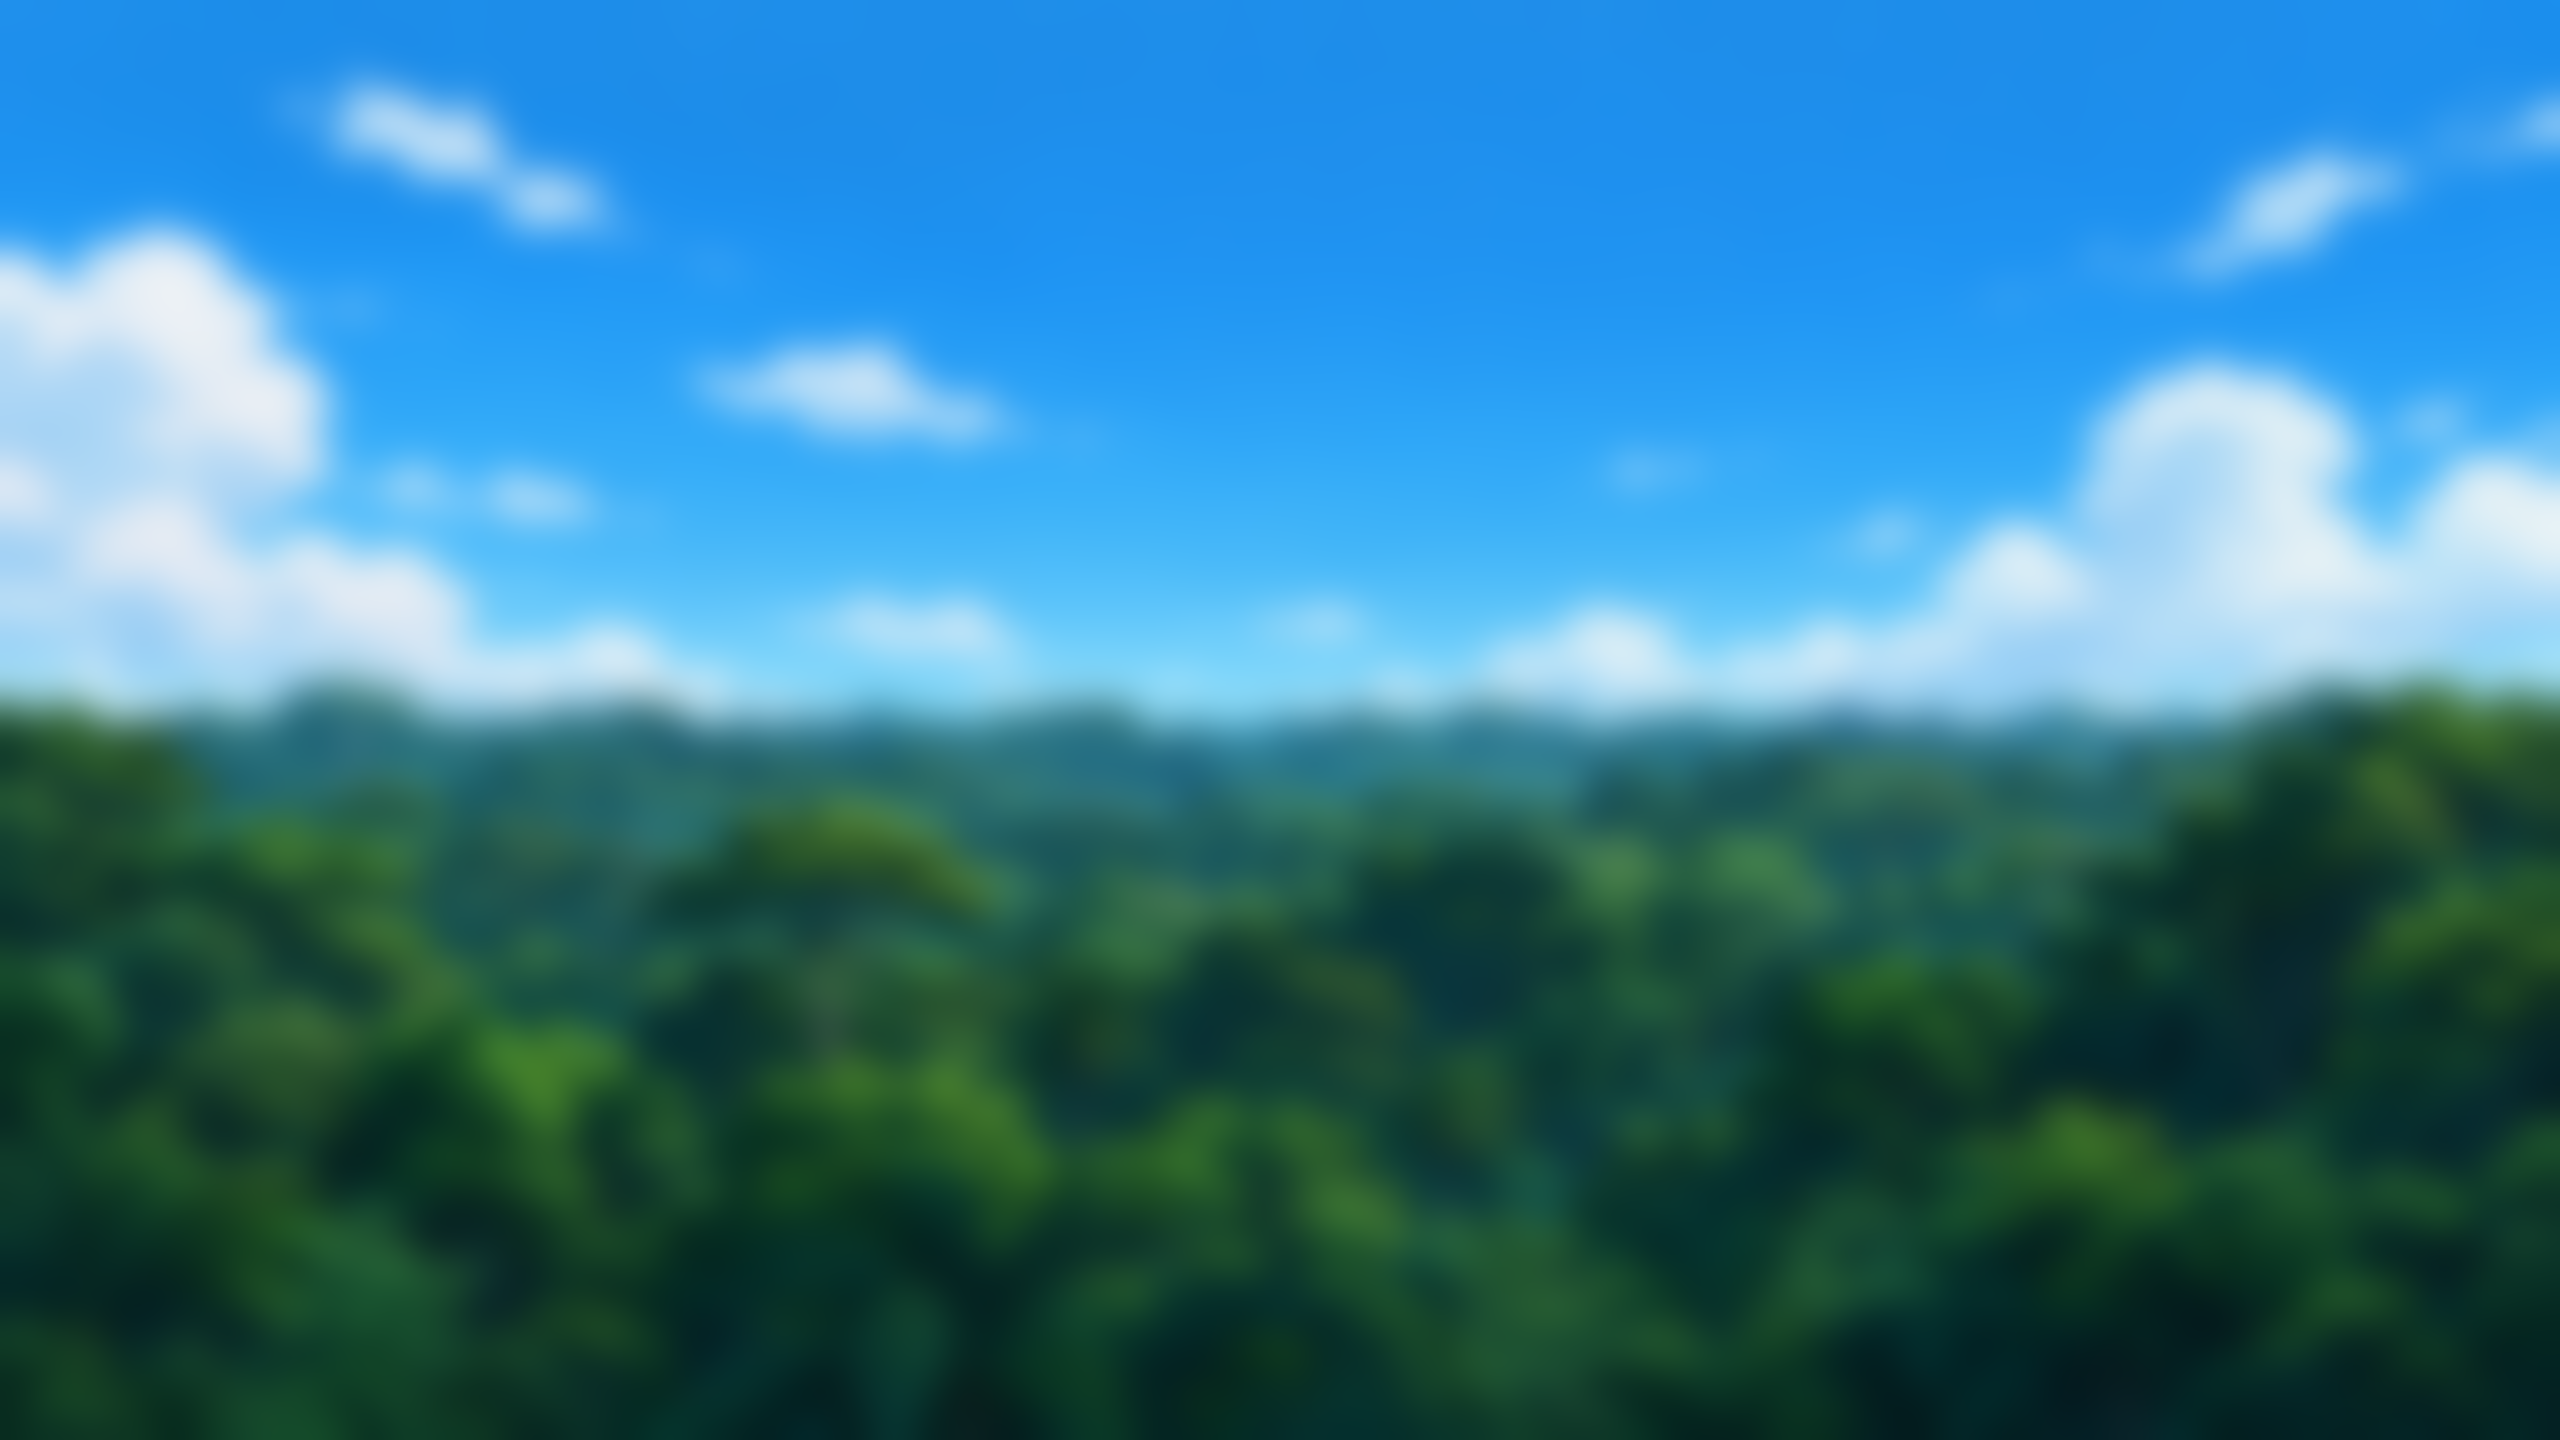
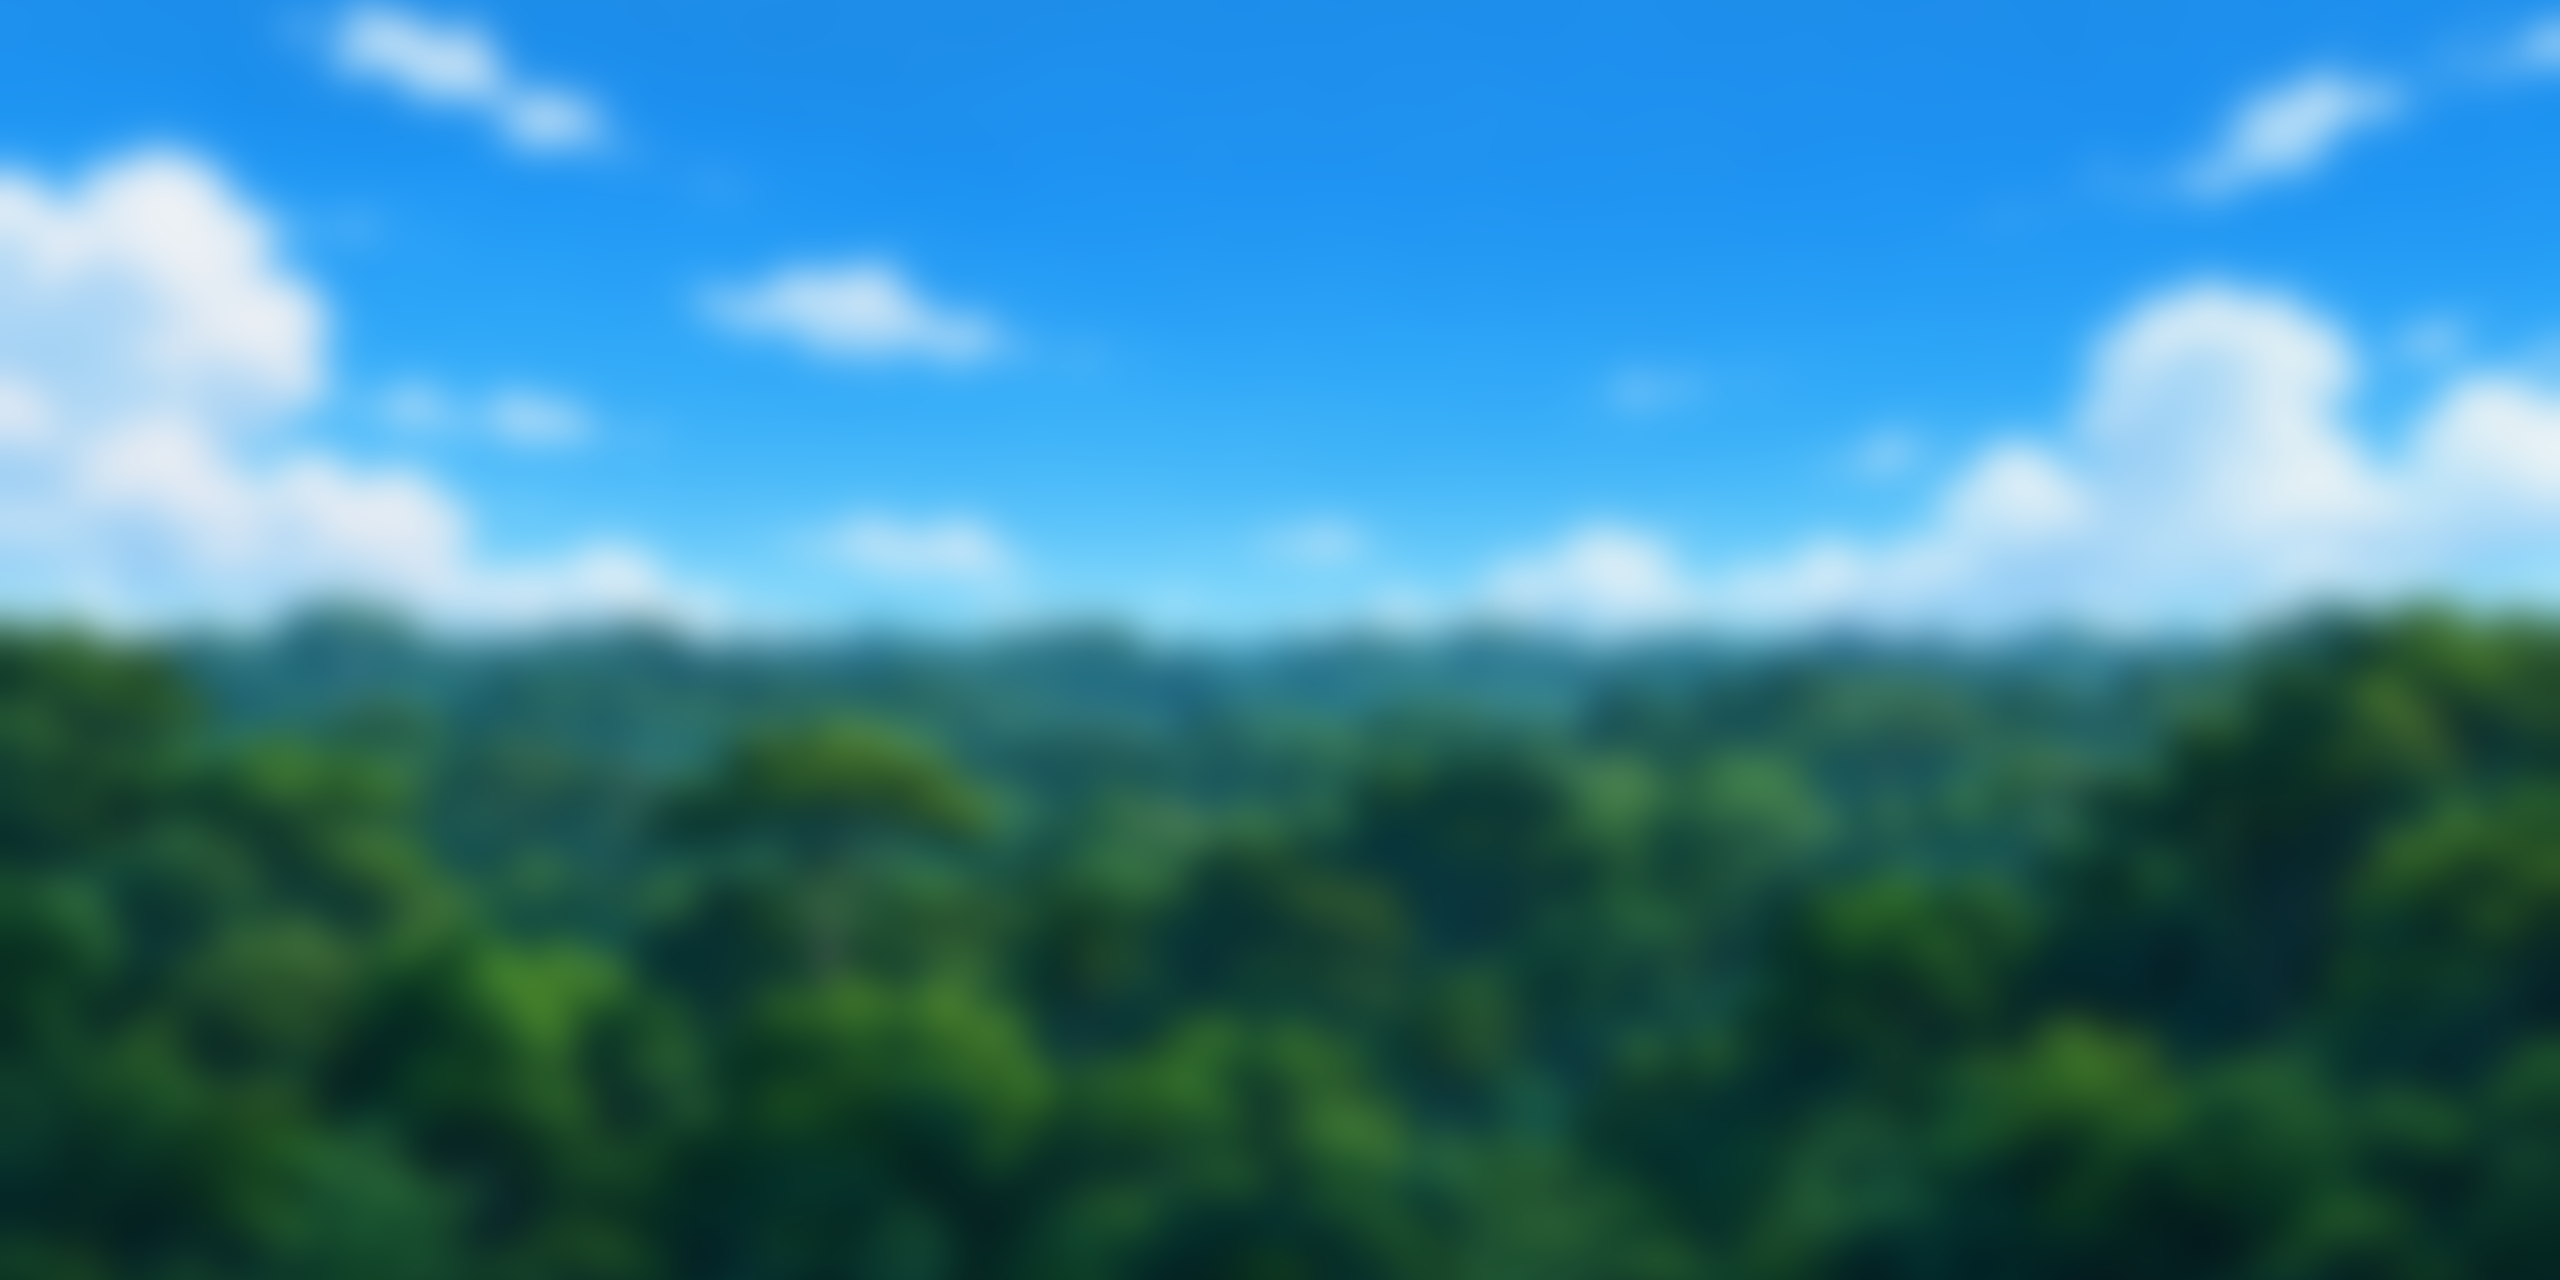
skybox change

diff --git a/Assets/Core/Scripts/Editor/MatchCatalogBuilder.cs b/Assets/Core/Scripts/Editor/MatchCatalogBuilder.cs
@@ -21,6 +21,13 @@ namespace Blocks.Gameplay.Core
     ///     Prefabs WITHOUT an underscore in their name (Challenge16, Challenge32) are not challenges: they're
     ///     the plain pieces Practice Map fills the holes with, so they're kept out of the random rotation and
     ///     stored as the catalog's practice pieces instead.
+    /// Each map's sky also goes in the MapCatalog: a Skybox material or image named after the map plus
+    /// "_skybox", anywhere under Assets (dinosaur_zoo_skybox.png for DinosaurZoo - case, underscores and
+    /// spaces don't matter). For an image, a Skybox/Panoramic material of the same name is made next to it
+    /// the first time (180 degrees, mirrored on the back, so there's no seam and the image isn't stretched
+    /// all the way round) and the image is set to import at full size without mipmaps. After that the
+    /// material is left alone, so tweak it (Rotation, Exposure, Image Type) as you like. Maps with no sky
+    /// keep [BB] Core's default.
     /// Rebuilt automatically when anything in those folders (or a glb in Assets/Maps, since the markers live
     /// there) is imported, moved or deleted, and once when the editor loads if a list doesn't exist yet.
     ///
@@ -76,7 +83,18 @@ namespace Blocks.Gameplay.Core
         internal static bool IsWatchedPath(string path) =>
             path.StartsWith(MapsFolder + "/", StringComparison.Ordinal) ||
             path.StartsWith(ChallengesFolder + "/", StringComparison.Ordinal) ||
-            (path.StartsWith(GlbFolder + "/", StringComparison.Ordinal) && path.EndsWith(".glb", StringComparison.OrdinalIgnoreCase));
+            (path.StartsWith(GlbFolder + "/", StringComparison.Ordinal) && path.EndsWith(".glb", StringComparison.OrdinalIgnoreCase)) ||
+            (path.StartsWith("Assets/", StringComparison.Ordinal) && IsSkyboxFileName(path));
+
+        private static readonly string[] SkyboxExtensions = { ".mat", ".png", ".jpg", ".jpeg", ".tga", ".psd", ".exr", ".hdr" };
+
+        private static bool IsSkyboxFileName(string path) =>
+            SkyboxKey(Path.GetFileNameWithoutExtension(path)).EndsWith("skybox", StringComparison.Ordinal) &&
+            SkyboxExtensions.Contains(Path.GetExtension(path).ToLowerInvariant());
+
+        /// <summary>A name with case, underscores, spaces etc. ignored: "dinosaur_zoo_skybox" and "DinosaurZooSkybox" match.</summary>
+        private static string SkyboxKey(string name) =>
+            new string(name.Where(char.IsLetterOrDigit).Select(char.ToLowerInvariant).ToArray());
 
         /// <summary>Rebuilds both lists. Returns a summary (also logged).</summary>
         public static string Rebuild()
@@ -158,7 +176,8 @@ namespace Blocks.Gameplay.Core
                     id = prefab.name,
                     prefab = prefab,
                     sockets16 = sockets.Count(s => s.Size == 16),
-                    sockets32 = sockets.Count(s => s.Size == 32)
+                    sockets32 = sockets.Count(s => s.Size == 32),
+                    skybox = FindSkybox(prefab.name, log)
                 });
             }
             return entries;
@@ -203,6 +222,82 @@ namespace Blocks.Gameplay.Core
                 .Select(AssetDatabase.GUIDToAssetPath)
                 .Distinct()
                 .OrderBy(Path.GetFileNameWithoutExtension, StringComparer.Ordinal);
+        }
+
+        /// <summary>
+        /// The map's sky: a material named &lt;map&gt;_skybox, or one made from an image of that name. Null if
+        /// there's neither (the map keeps [BB] Core's default sky).
+        /// </summary>
+        private static Material FindSkybox(string mapId, StringBuilder log)
+        {
+            string key = SkyboxKey(mapId) + "skybox";
+
+            foreach (string path in FindSkyboxAssets("t:Material"))
+            {
+                if (SkyboxKey(Path.GetFileNameWithoutExtension(path)) != key) continue;
+                var material = AssetDatabase.LoadAssetAtPath<Material>(path);
+                if (material != null) return material;
+            }
+
+            foreach (string path in FindSkyboxAssets("t:Texture2D"))
+            {
+                if (SkyboxKey(Path.GetFileNameWithoutExtension(path)) != key) continue;
+                Material made = CreateSkyboxMaterial(path, log);
+                if (made != null) return made;
+            }
+
+            return null;
+        }
+
+        private static IEnumerable<string> FindSkyboxAssets(string typeFilter) =>
+            AssetDatabase.FindAssets("skybox " + typeFilter, new[] { "Assets" })
+                .Select(AssetDatabase.GUIDToAssetPath)
+                .Where(p => p.StartsWith("Assets/", StringComparison.Ordinal))
+                .Distinct()
+                .OrderBy(p => p, StringComparer.Ordinal);
+
+        /// <summary>Makes a Skybox/Panoramic material next to the image (same name, .mat) and sets the image up for it.</summary>
+        private static Material CreateSkyboxMaterial(string texturePath, StringBuilder log)
+        {
+            Shader shader = Shader.Find("Skybox/Panoramic");
+            if (shader == null)
+            {
+                string message = $"Couldn't make a sky from {texturePath}: the Skybox/Panoramic shader wasn't found.";
+                Debug.LogWarning("[Maps] " + message);
+                log.AppendLine(message);
+                return null;
+            }
+
+            // Full size (no shrinking to a power of two or 2048), no mipmaps (they leave a thin line in the sky),
+            // and clamped at the sides (the image is mirrored there, not wrapped).
+            if (AssetImporter.GetAtPath(texturePath) is TextureImporter importer)
+            {
+                bool changed = false;
+                if (importer.mipmapEnabled) { importer.mipmapEnabled = false; changed = true; }
+                if (importer.npotScale != TextureImporterNPOTScale.None) { importer.npotScale = TextureImporterNPOTScale.None; changed = true; }
+                if (importer.maxTextureSize < 4096) { importer.maxTextureSize = 4096; changed = true; }
+                if (importer.wrapMode != TextureWrapMode.Clamp) { importer.wrapMode = TextureWrapMode.Clamp; changed = true; }
+                if (changed) importer.SaveAndReimport();
+            }
+
+            var texture = AssetDatabase.LoadAssetAtPath<Texture2D>(texturePath);
+            if (texture == null) return null;
+
+            string materialPath = Path.ChangeExtension(texturePath, ".mat").Replace('\\', '/');
+            var material = new Material(shader) { name = Path.GetFileNameWithoutExtension(materialPath) };
+            material.SetTexture("_MainTex", texture);
+            material.SetFloat("_Mapping", 1f); // Latitude Longitude Layout
+            material.DisableKeyword("_MAPPING_6_FRAMES_LAYOUT");
+            material.SetFloat("_ImageType", 1f); // 180 degrees...
+            material.SetFloat("_MirrorOnBack", 1f); // ...mirrored behind, so there's no seam
+            material.EnableKeyword("_MIRRORONBACK_ON");
+            material.SetFloat("_Exposure", 1f);
+            AssetDatabase.CreateAsset(material, materialPath);
+
+            string done = $"Made sky material {materialPath} from {Path.GetFileName(texturePath)}.";
+            Debug.Log("[Maps] " + done, material);
+            log.AppendLine(done);
+            return material;
         }
 
         private static T LoadOrCreate<T>(string path) where T : ScriptableObject

diff --git a/Assets/Core/Scripts/Runtime/Components/MatchLayout.cs b/Assets/Core/Scripts/Runtime/Components/MatchLayout.cs
@@ -52,6 +52,8 @@ namespace Blocks.Gameplay.Core
 
         private GameObject m_MapInstance;
         private string m_MapInstanceId;
+        private Material m_DefaultSkybox;
+        private bool m_DefaultSkyboxSaved;
         private bool m_Built;
 
         /// <summary>True once this client has built the map and challenges (or there was nothing to build).</summary>
@@ -285,7 +287,27 @@ namespace Blocks.Gameplay.Core
             m_MapInstance = Instantiate(entry.prefab, source.position, source.rotation, transform);
             m_MapInstance.name = "Map_" + entry.id;
             m_MapInstanceId = mapId;
+            ApplySkybox(entry);
             return m_MapInstance;
+        }
+
+        /// <summary>
+        /// Switches the sky to the map's own (MapCatalog entry, from its <c>map_name_skybox</c> image), or back to
+        /// the scene's default sky if the map hasn't got one.
+        /// </summary>
+        private void ApplySkybox(MapCatalog.Entry entry)
+        {
+            if (!m_DefaultSkyboxSaved)
+            {
+                m_DefaultSkybox = RenderSettings.skybox;
+                m_DefaultSkyboxSaved = true;
+            }
+
+            Material sky = entry != null && entry.skybox != null ? entry.skybox : m_DefaultSkybox;
+            if (RenderSettings.skybox == sky) return;
+
+            RenderSettings.skybox = sky;
+            DynamicGI.UpdateEnvironment();
         }
 
         #endregion

diff --git a/Assets/Core/Scripts/Runtime/Framework/Maps/MapCatalog.cs b/Assets/Core/Scripts/Runtime/Framework/Maps/MapCatalog.cs
@@ -28,6 +28,10 @@ namespace Blocks.Gameplay.Core
 
             [Tooltip("How many 32x32 holes (challenge32 entities) the map has. Informational.")]
             public int sockets32;
+
+            [Tooltip("The map's sky (a Skybox material), or empty to keep [BB] Core's default sky. Filled in from a " +
+                     "texture or material named <map>_skybox, e.g. dinosaur_zoo_skybox.png for DinosaurZoo.")]
+            public Material skybox;
         }
 
         public const string ResourcePath = "MapCatalog";
